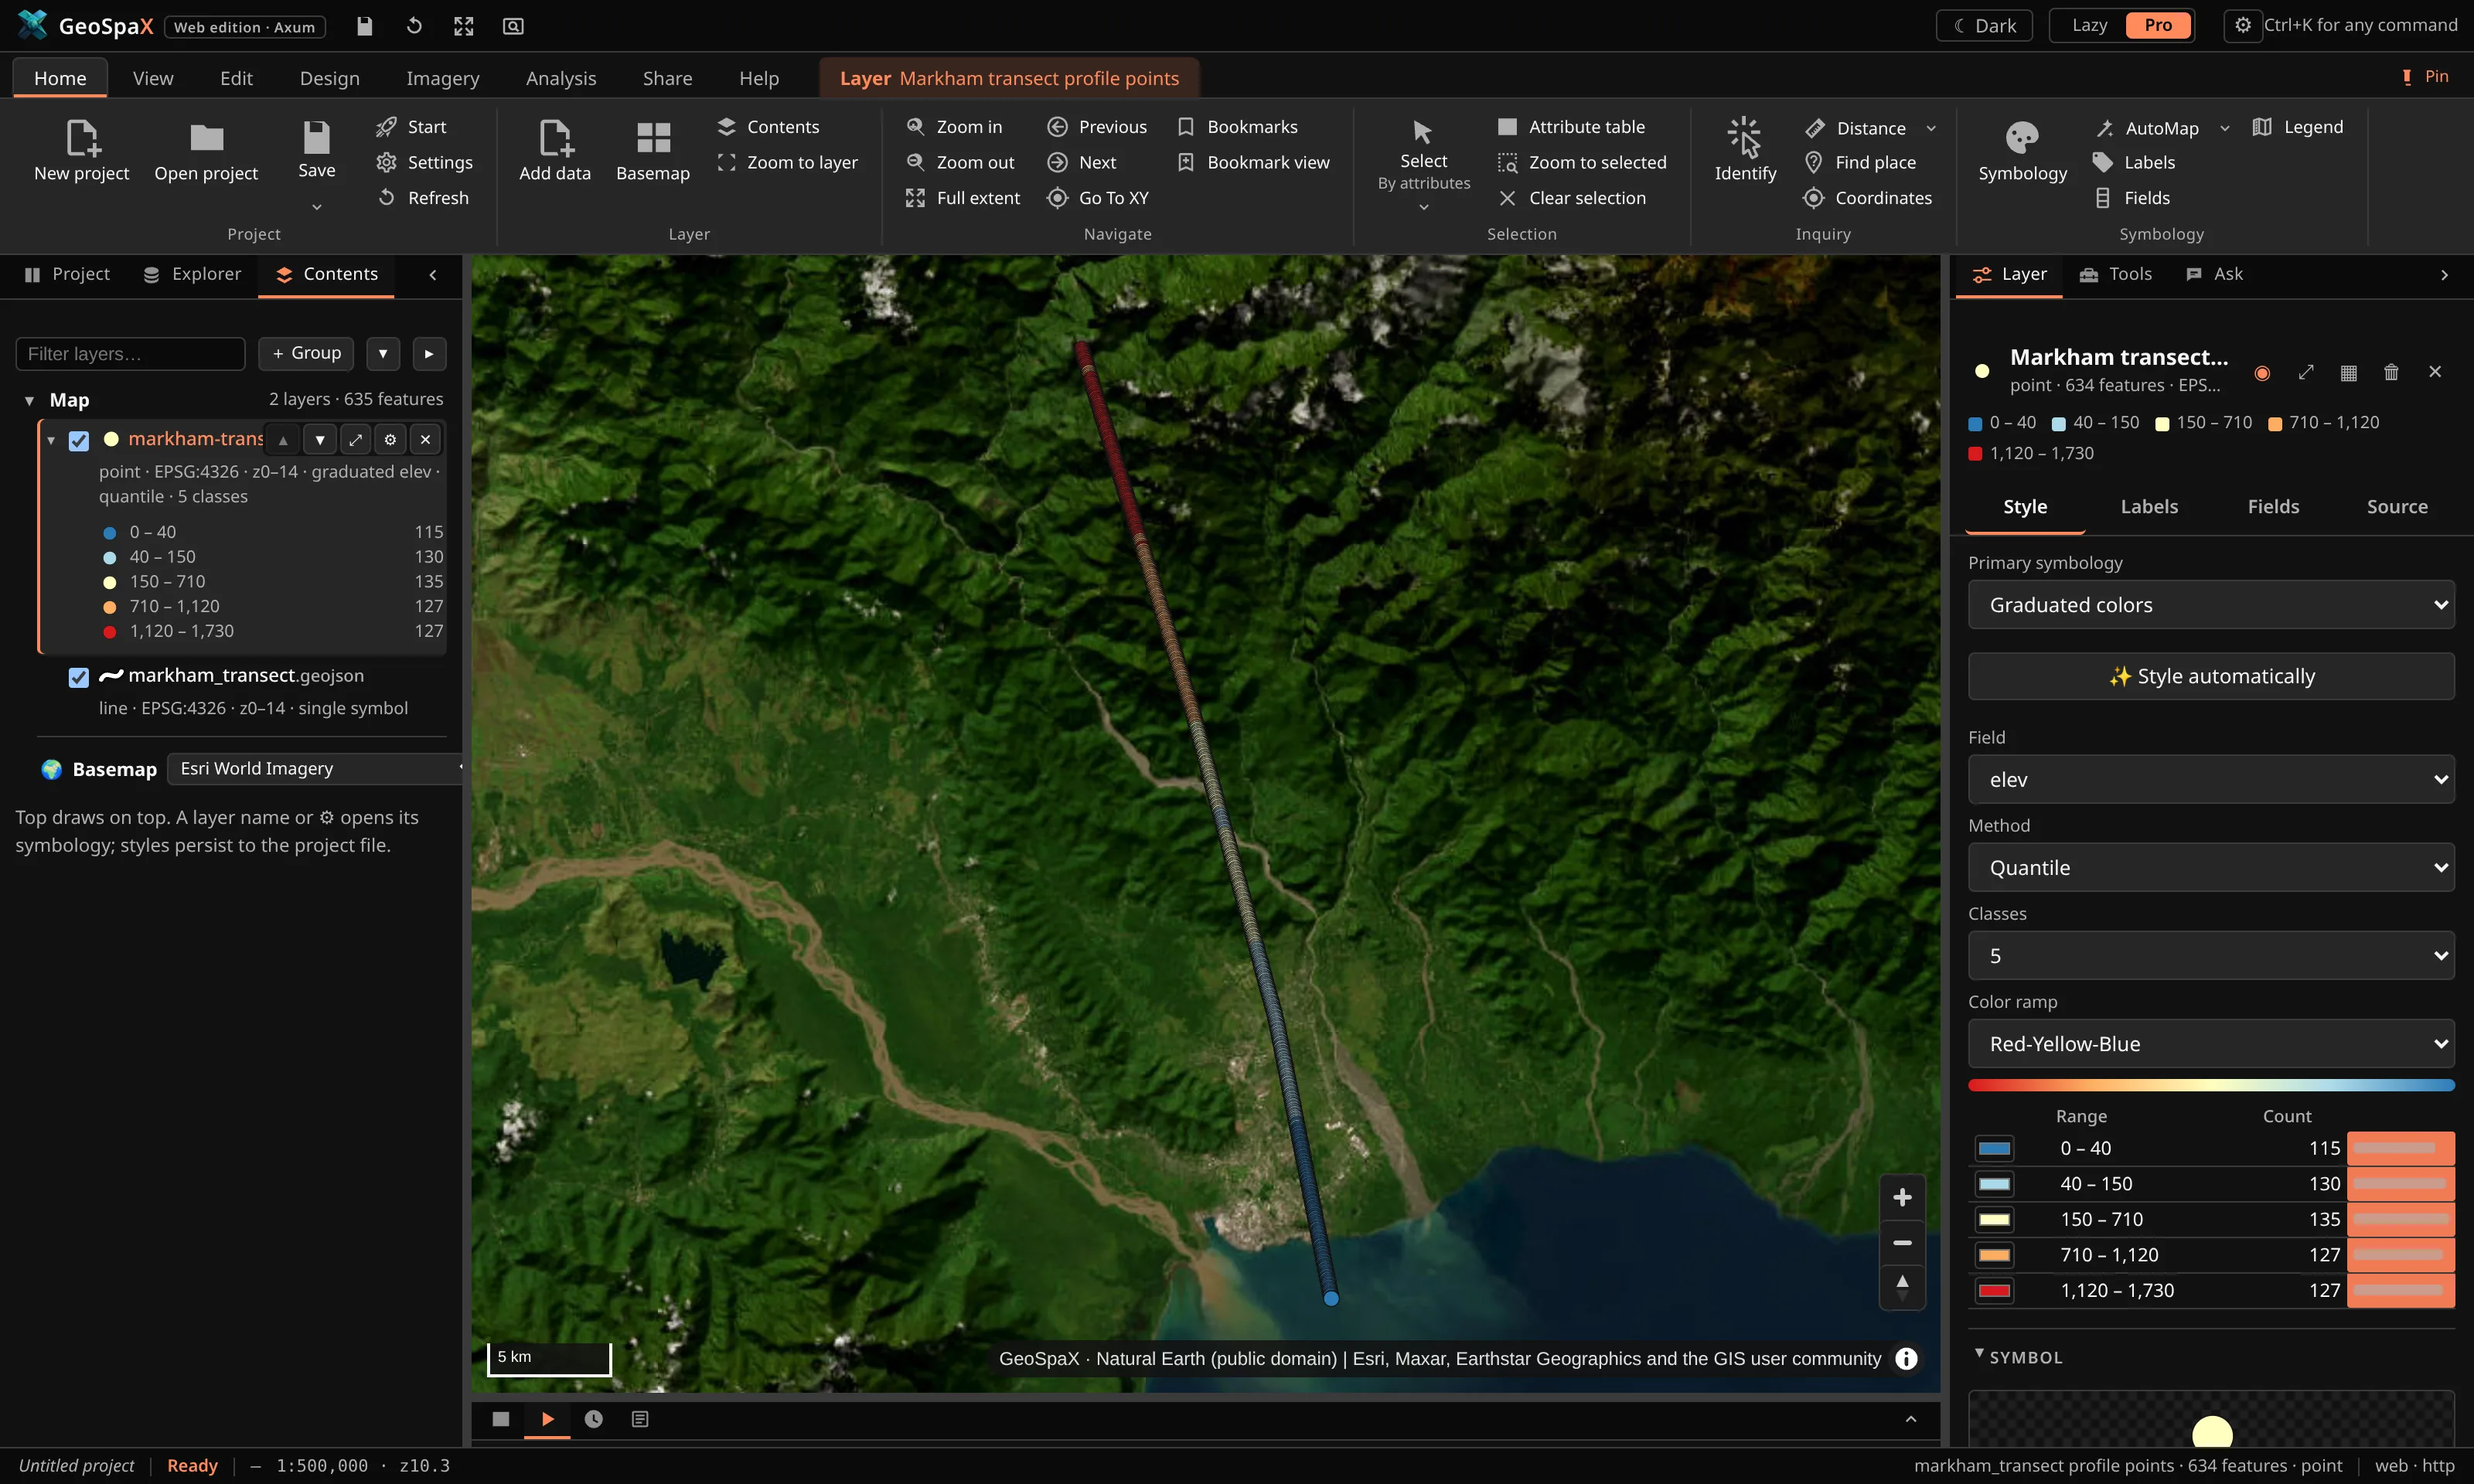
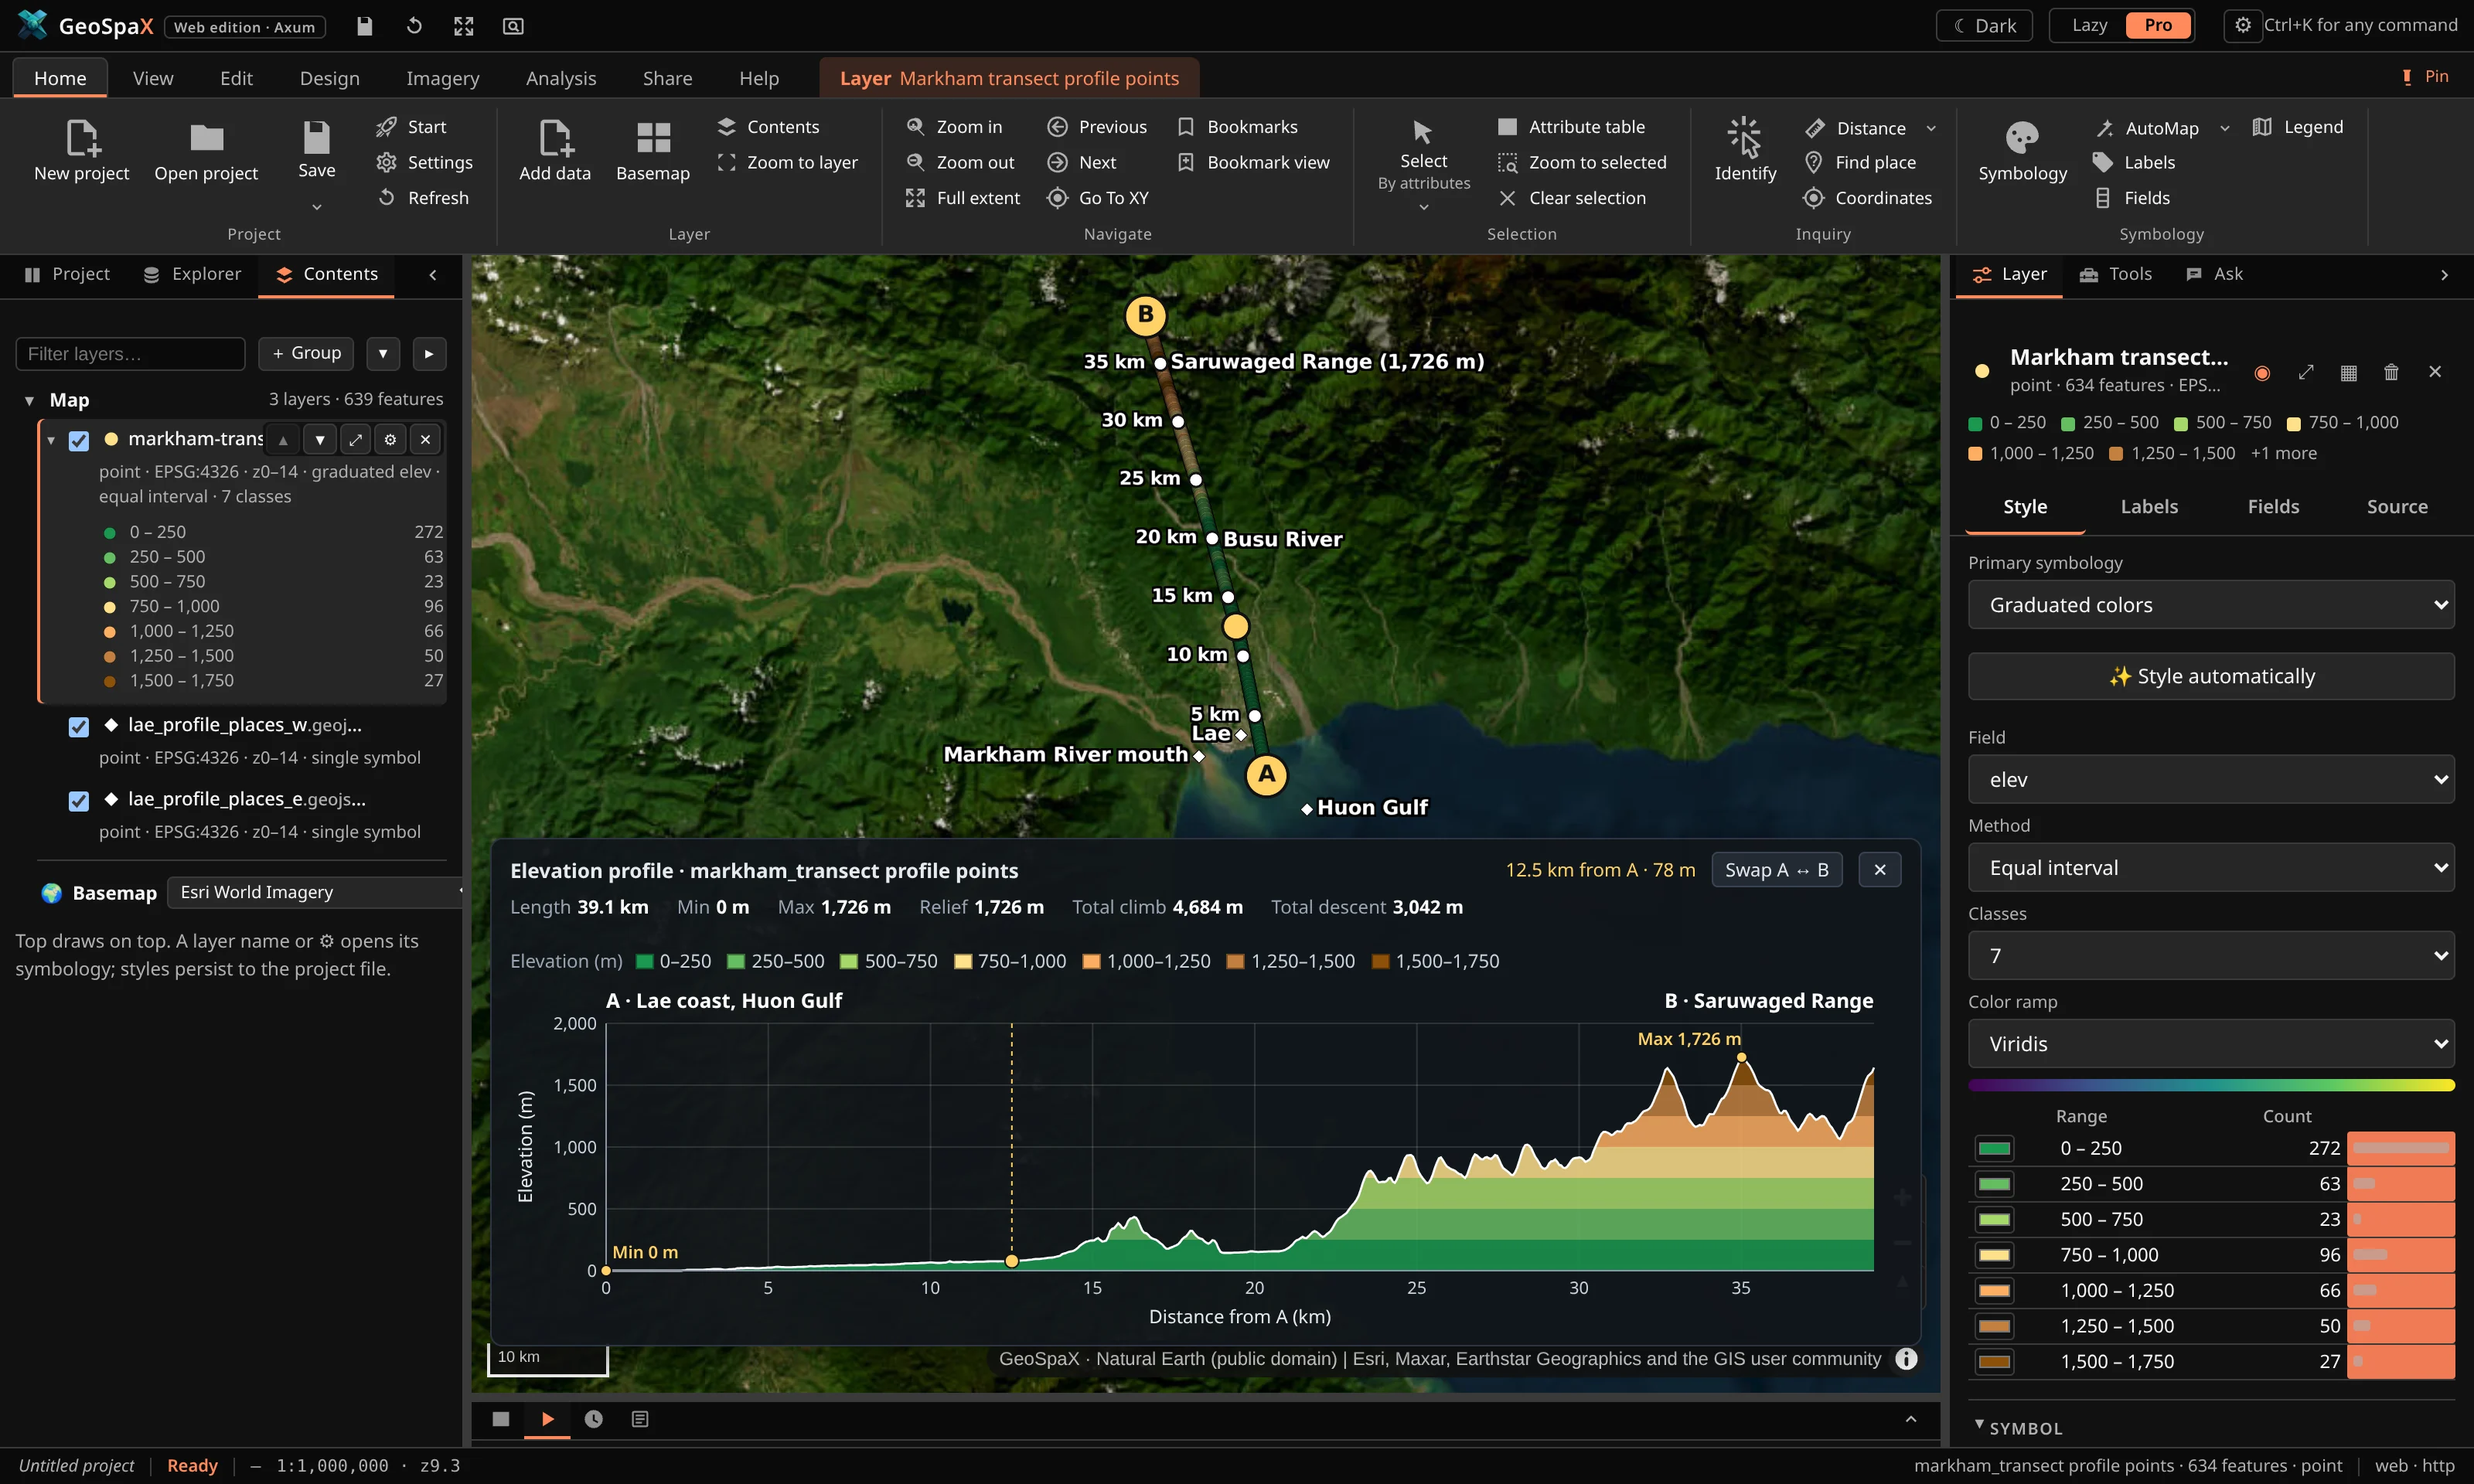
site: add the elevation profile to the showcase and plugin gallery

diff --git a/site/main.js b/site/main.js
@@ -11,7 +11,7 @@ const PLUGINS = [
   ['climate', 'Climate', "Coastal flood exposure of Lae's low-lying coast (10 m and below) from elevation and built-up land."],
   ['conservation', 'Conservation', 'Weighted hotspot grid of marine records on 10 km hexagons.'],
   ['disaster', 'Disaster', 'Landslide susceptibility from slope, local relief and tree cover.'],
-  ['environment', 'Environment', 'Elevation profile of a 38.9 km transect to the Huon Gulf: 20 m to 1,175 m.'],
+  ['environment', 'Environment', 'Elevation profile from the Lae coast to the Saruwaged Range: 39.1 km, 0 to 1,726 m, 4,684 m total climb.'],
   ['forestry', 'Forestry', '136 forest patches, 28,797 ha of core forest and the links joining them within 500 m.'],
   ['geoscience', 'Geoscience', 'Slope zones of the Markham valley from the Copernicus 30 m DEM.'],
   ['lulc', 'Land use and land cover', 'Forest change 2000–2023 east of Lae: 3,800 ha lost.'],
@@ -22,8 +22,8 @@ const PLUGINS = [
 const box = document.querySelector('[data-plugins]');
 if (box) {
   box.innerHTML = PLUGINS.map(([id, name, text]) => `
-    <figure class="shot plugin" tabindex="0" data-full="/img/plugin-${id}.webp?v=3.0.6">
-      <img loading="lazy" src="/img/plugin-${id}.webp?v=3.0.6" alt="GeoSpaX ${name} plugin" />
+    <figure class="shot plugin" tabindex="0" data-full="/img/plugin-${id}.webp?v=20261030b">
+      <img loading="lazy" src="/img/plugin-${id}.webp?v=20261030b" alt="GeoSpaX ${name} plugin" />
       <figcaption><b>${name}.</b> ${text}</figcaption>
     </figure>`).join('') + `
     <figure class="shot plugin" tabindex="0" data-full="/img/tour-landcover.webp">

diff --git a/site/index.html b/site/index.html
@@ -159,6 +159,7 @@
           <figure class="shot" tabindex="0" data-full="/img/ribbon-time.webp?v=20261030"><img loading="lazy" src="/img/ribbon-time.webp?v=20261030" alt="The time slider adding up bird records around Lae by year" /><figcaption><b>Time slider.</b> Watch 33 years of bird records build up, or play any layer with a date field by year, month or day.</figcaption></figure>
           <figure class="shot" tabindex="0" data-full="/img/tour-dem-wilhelm.webp?v=20261030"><img loading="lazy" src="/img/tour-dem-wilhelm.webp?v=20261030" alt="Copernicus DEM of Mount Wilhelm" /><figcaption><b>Elevation in seconds.</b> The 30 m DEM of Mount Wilhelm, tinted green to white.</figcaption></figure>
           <figure class="shot" tabindex="0" data-full="/img/tour-dem-3d.webp?v=20261030"><img loading="lazy" src="/img/tour-dem-3d.webp?v=20261030" alt="Mount Wilhelm DEM as 3D terrain" /><figcaption><b>…and in 3D.</b> One click raises the DEM as live terrain.</figcaption></figure>
+          <figure class="shot" tabindex="0" data-full="/img/tour-profile.webp?v=20261030"><img loading="lazy" src="/img/tour-profile.webp?v=20261030" alt="Elevation profile chart from the Lae coast to the Saruwaged Range" /><figcaption><b>Elevation profile.</b> Draw a line, get a linked distance and elevation chart. Lae coast to the Saruwaged Range: 39.1 km, 0 to 1,726 m, 4,684 m total climb.</figcaption></figure>
         </div>
       </div>
     </section>
